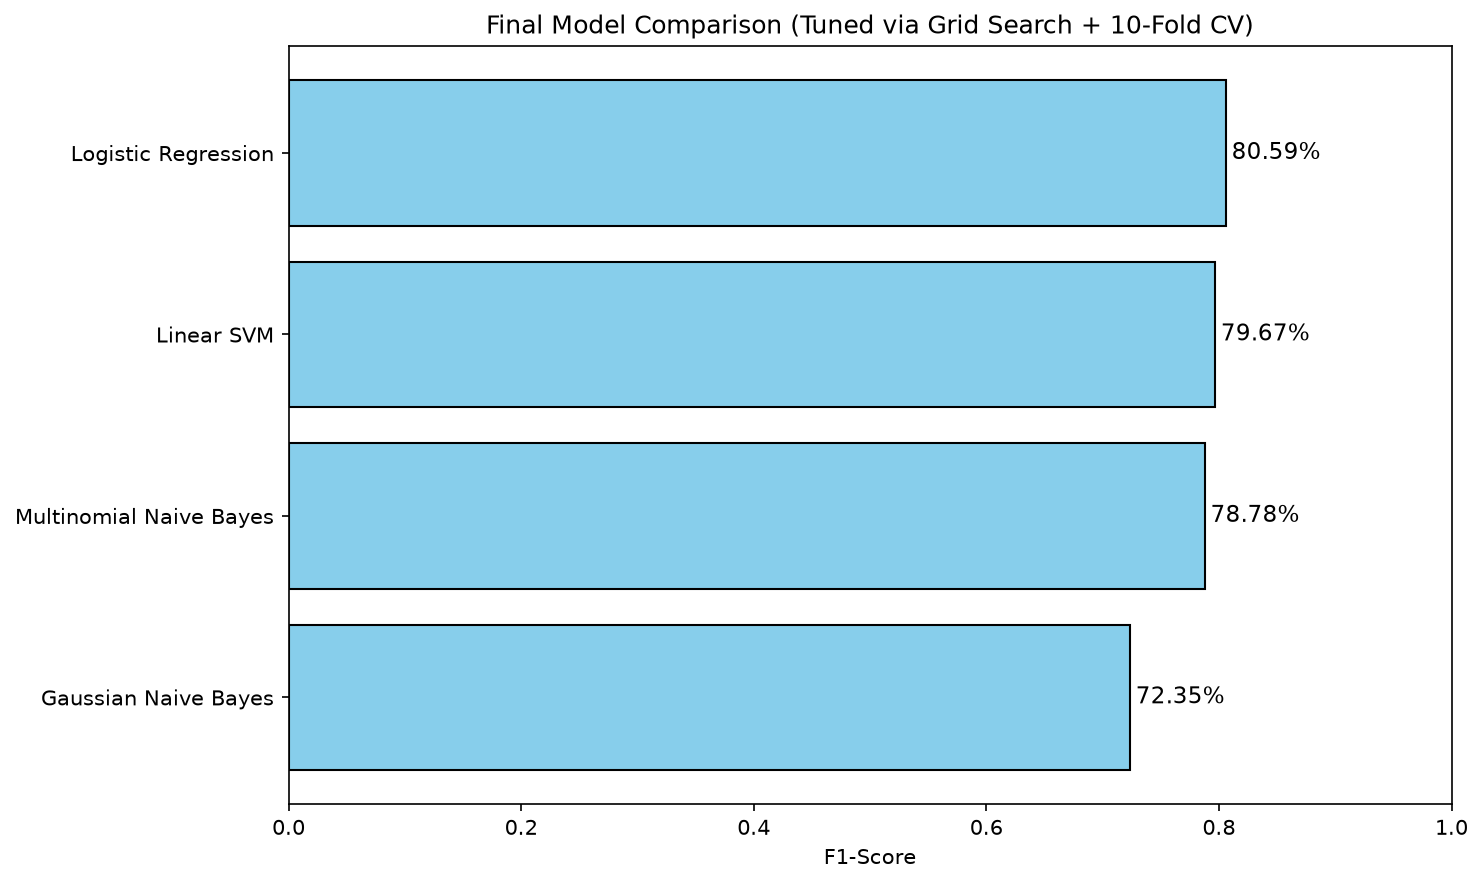
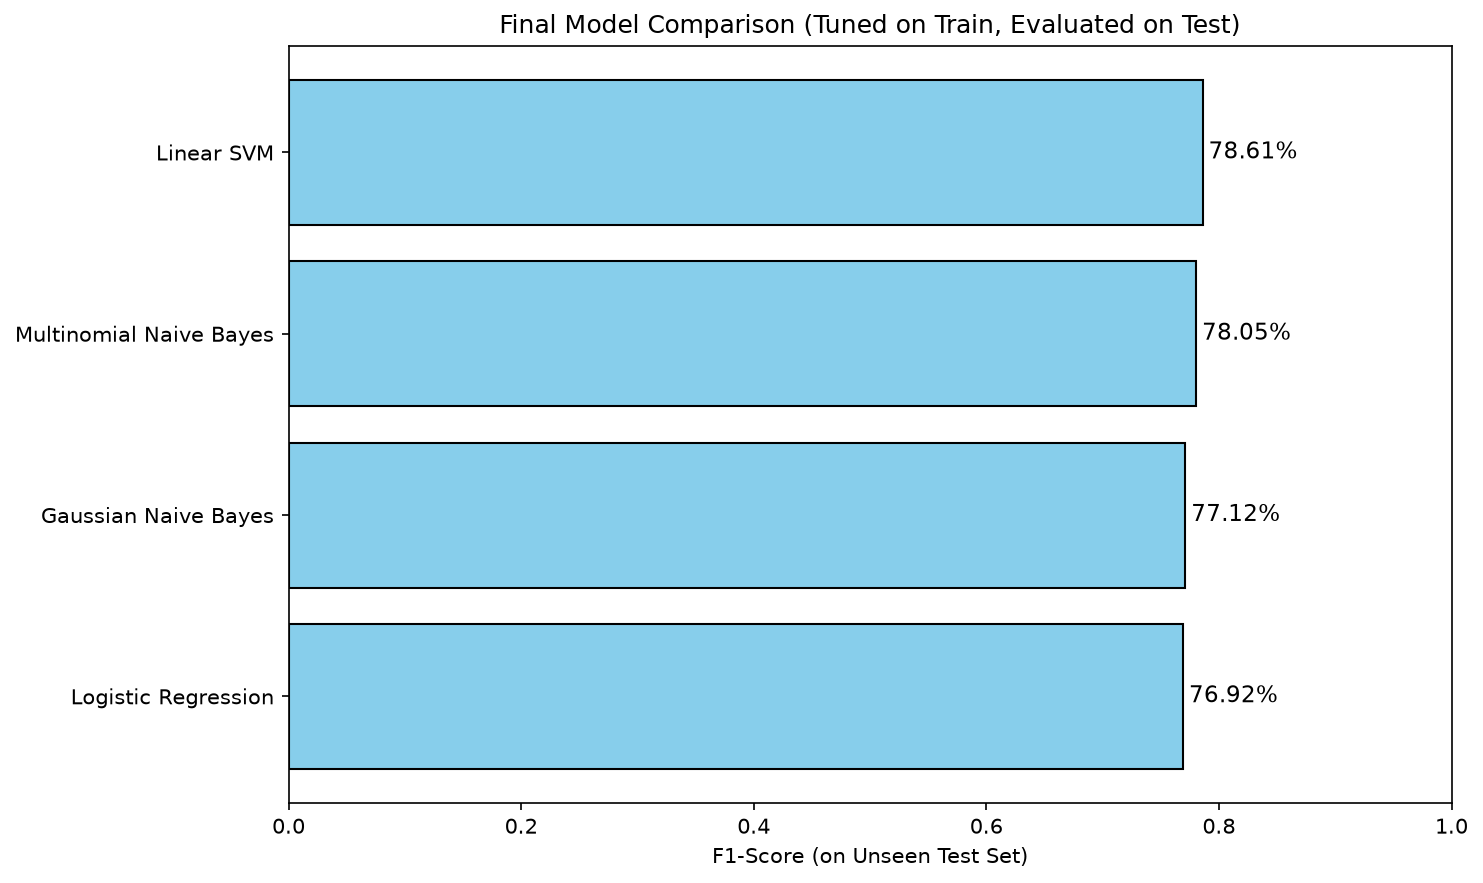
separate tuning and evaluation phases using 80/20 holdout set

diff --git a/src/nlp_pipline.py b/src/nlp_pipline.py
@@ -1,6 +1,14 @@
-
+# =============================================================================
 # RESTAURANT REVIEWS SENTIMENT ANALYSIS - NLP PIPELINE
-
+# =============================================================================
+# 
+# This script performs sentiment analysis on restaurant reviews using:
+#   - Natural Language Processing (NLP) for text cleaning.
+#   - Bag of Words model (CountVectorizer) for feature extraction.
+#   - 80/20 Train-Test Split to prevent data leakage.
+#   - Grid Search on the Training set to tune hyperparameters.
+#   - Final unbiased evaluation on the unseen Test set.
+# =============================================================================
 
 import re
 import nltk
@@ -11,10 +19,11 @@ import matplotlib.pyplot as plt
 from nltk.corpus import stopwords
 from nltk.stem.porter import PorterStemmer
 from sklearn.feature_extraction.text import CountVectorizer
-from sklearn.model_selection import GridSearchCV, cross_validate
+from sklearn.model_selection import train_test_split, GridSearchCV
 from sklearn.naive_bayes import GaussianNB, MultinomialNB
 from sklearn.linear_model import LogisticRegression
 from sklearn.svm import SVC
+from sklearn.metrics import accuracy_score, precision_score, recall_score, f1_score
 
 
 # =============================================================================
@@ -49,27 +58,16 @@ def clean_reviews(dataset):
     corpus = []
     ps = PorterStemmer()
     
-    # Get stopwords and remove 'not' (because it carries sentiment)
     all_stopwords = stopwords.words('english')
     all_stopwords.remove('not')
-    stopword_set = set(all_stopwords)  # Use a set for O(1) lookup
+    stopword_set = set(all_stopwords)
     
     for i in range(len(dataset)):
-        # Step 1: Remove non-letter characters
         review = re.sub('[^a-zA-Z]', ' ', dataset['Review'][i])
-        
-        # Step 2: Lowercase
         review = review.lower()
-        
-        # Step 3: Split into words
         review = review.split()
-        
-        # Step 4: Stem and remove stopwords
         review = [ps.stem(word) for word in review if word not in stopword_set]
-        
-        # Step 5: Join back into a string
         review = ' '.join(review)
-        
         corpus.append(review)
     
     print(f"Cleaned {len(corpus)} reviews.")
@@ -89,57 +87,45 @@ def build_bag_of_words(corpus, max_features=1500):
 
 
 # =============================================================================
-# 5. TUNE AND EVALUATE MODELS
+# 5. TUNE ON TRAIN SET & EVALUATE ON TEST SET
 # =============================================================================
 
-def tune_and_evaluate(model_name, classifier, param_grid, X, y, cv=10):
+def tune_and_evaluate(model_name, classifier, param_grid, X_train, y_train, X_test, y_test, cv=10):
     """
-    Tune a model using GridSearchCV, then evaluate it using 
-    cross_validate to get Accuracy, Precision, Recall, and F1-Score.
+    Tune a model using GridSearchCV on the Training set, 
+    then evaluate it once on the unseen Test set.
     """
     print(f"\nProcessing: {model_name}")
     
-    # 1. Tuning (Grid Search)
+    # 1. Tuning (Grid Search on the Training Data ONLY)
     if param_grid:
         grid_search = GridSearchCV(
             estimator=classifier, 
             param_grid=param_grid, 
-            scoring="f1", 
+            scoring="f1",  # We tune using F1-Score
             cv=cv, 
             n_jobs=-1
         )
-        grid_search.fit(X, y)
+        grid_search.fit(X_train, y_train)
         best_model = grid_search.best_estimator_
         best_params = grid_search.best_params_
+        print(f"  -> Best Params found on Train Set: {best_params}")
     else:
         # If no grid is provided (e.g., GaussianNB)
         best_model = classifier
+        best_model.fit(X_train, y_train)
         best_params = "N/A"
+        print("  -> No hyperparameters to tune. Trained with default settings.")
         
-    # 2. Final Evaluation (Cross-Validation for all metrics)
-    scoring_metrics = {
-        'accuracy': 'accuracy',
-        'precision': 'precision',
-        'recall': 'recall',
-        'f1': 'f1'
-    }
-    
-    cv_results = cross_validate(
-        best_model, X, y, cv=cv, scoring=scoring_metrics, n_jobs=-1
-    )
-    
-    # Calculate means
-    mean_acc = cv_results['test_accuracy'].mean()
-    mean_prec = cv_results['test_precision'].mean()
-    mean_rec = cv_results['test_recall'].mean()
-    mean_f1 = cv_results['test_f1'].mean()
+    # 2. Final Evaluation on the UNSEEN Test Data
+    y_pred = best_model.predict(X_test)
     
     return {
         "Model": model_name,
-        "Accuracy": mean_acc,
-        "Precision": mean_prec,
-        "Recall": mean_rec,
-        "F1-Score": mean_f1,
+        "Accuracy": accuracy_score(y_test, y_pred),
+        "Precision": precision_score(y_test, y_pred),
+        "Recall": recall_score(y_test, y_pred),
+        "F1-Score": f1_score(y_test, y_pred),
         "Best Params": str(best_params)
     }
 
@@ -149,16 +135,12 @@ def tune_and_evaluate(model_name, classifier, param_grid, X, y, cv=10):
 # =============================================================================
 
 def plot_comparison(results, filename="outputs/model_comparison.png"):
-    """Plot a bar chart comparing model accuracies and save it to a file."""
-    # Sort by F1-Score (since it balances precision and recall)
+    """Plot a bar chart comparing model F1-Scores on the Test set."""
     df = pd.DataFrame(results).sort_values("F1-Score", ascending=True)
     
     plt.figure(figsize=(10, 6))
-    
-    # We will plot the F1-Score, as it's the best overall metric
     bars = plt.barh(df["Model"], df["F1-Score"], color="skyblue", edgecolor="black")
     
-    # Add labels on each bar
     for bar, f1 in zip(bars, df["F1-Score"]):
         plt.text(
             bar.get_width() + 0.005,
@@ -168,8 +150,8 @@ def plot_comparison(results, filename="outputs/model_comparison.png"):
             fontsize=11
         )
     
-    plt.xlabel("F1-Score")
-    plt.title("Final Model Comparison (Tuned via Grid Search + 10-Fold CV)")
+    plt.xlabel("F1-Score (on Unseen Test Set)")
+    plt.title("Final Model Comparison (Tuned on Train, Evaluated on Test)")
     plt.xlim(0, 1.0)
     plt.tight_layout()
     
@@ -184,7 +166,7 @@ def plot_comparison(results, filename="outputs/model_comparison.png"):
 # =============================================================================
 
 def main():
-    """Run the complete NLP pipeline with Grid Search tuning."""
+    """Run the complete NLP pipeline with rigorous Train/Test separation."""
     
     # Step 1: Setup and Data Loading
     download_nltk_data()
@@ -195,40 +177,49 @@ def main():
     X, cv_vectorizer = build_bag_of_words(corpus, max_features=1500)
     y = dataset.iloc[:, -1].values
     
-    # Step 3: Define the models AND their hyperparameter grids
+    # Step 3: THE GOLD STANDARD SPLIT
+    # We lock away 20% of the data NOW. The models will never see it during tuning.
+    X_train, X_test, y_train, y_test = train_test_split(
+        X, y, test_size=0.2, random_state=0
+    )
+    print(f"Train shape: {X_train.shape}, Test shape: {X_test.shape}")
+    
+    # Step 4: Define the models AND their hyperparameter grids
     models_and_params = {
         "Gaussian Naive Bayes": {
             "model": GaussianNB(),
-            "params": {}  # No hyperparameters to tune
+            "params": {}  
         },
         "Multinomial Naive Bayes": {
             "model": MultinomialNB(),
-            "params": {"alpha": [0.1, 0.5, 1.0]}
+            "params": {"alpha": [0.1, 0.5, 1.0]} 
         },
         "Logistic Regression": {
             "model": LogisticRegression(max_iter=1000, random_state=0),
-            "params": {"C": [0.1, 1, 10]}
+            "params": {"C": [0.1, 1, 10]} 
         },
         "Linear SVM": {
             "model": SVC(kernel='linear', random_state=0),
-            "params": {"C": [0.1, 1, 10]}
+            "params": {"C": [0.1, 1, 10]} 
         },
     }
     
     results = []
     
-    # Step 4: Tune and Evaluate each model
+    # Step 5: Tune on Train, Evaluate on Test
     for name, mp in models_and_params.items():
-        result = tune_and_evaluate(name, mp["model"], mp["params"], X, y, cv=10)
+        result = tune_and_evaluate(
+            name, mp["model"], mp["params"], 
+            X_train, y_train, X_test, y_test, cv=10
+        )
         results.append(result)
     
-    # Step 5: Print the Final Summary Table
-    print("\n" + "=" * 80)
-    print("FINAL RESULTS: GRID SEARCH + 10-FOLD CROSS-VALIDATION")
-    print("=" * 80)
+    # Step 6: Print the Final Summary Table
+    print("\n" + "=" * 85)
+    print("FINAL RESULTS: EVALUATED ON UNSEEN TEST DATA (20%)")
+    print("=" * 85)
     
     summary = pd.DataFrame(results)
-    # Sort by F1-Score to find the overall best model
     summary = summary.sort_values("F1-Score", ascending=False)
     
     # Format metric columns as percentages
@@ -237,7 +228,7 @@ def main():
         
     print(summary[["Model", "Accuracy", "Precision", "Recall", "F1-Score", "Best Params"]].to_string(index=False))
     
-    # Step 6: Plot the Results
+    # Step 7: Plot the Results
     plot_comparison(results)
 
 

diff --git a/README.md b/README.md
@@ -4,7 +4,7 @@ A Natural Language Processing (NLP) project that classifies restaurant reviews a
 
 ## Overview
 
-This project demonstrates a complete NLP pipeline, from raw text preprocessing to model training and robust evaluation. It covers text cleaning, stemming, stopword removal, feature extraction using the Bag of Words technique, and a comparative analysis of four different classification algorithms.
+This project demonstrates a complete NLP pipeline, from raw text preprocessing to model training and rigorous evaluation. It covers text cleaning, stemming, stopword removal, feature extraction using the Bag of Words technique, and a comparative analysis of four different classification algorithms.
 
 The goal is to build a reliable model that can automatically determine the sentiment of a customer review, which can be applied to automate customer feedback monitoring and business intelligence.
 
@@ -29,25 +29,28 @@ The pipeline follows these key steps:
    - Applied Porter Stemming to reduce words to their root forms (e.g., "loved" to "love").
    - Removed stopwords, except for "not", which is crucial for sentiment analysis.
 3. **Feature Extraction:** Used `CountVectorizer` with `max_features=1500` to keep only the 1,500 most frequent words, converting the text into a sparse matrix.
-4. **Model Tuning and Evaluation:** To ensure maximum performance, all models were tuned using **Grid Search** (testing different regularization strengths and smoothing parameters). The models were then evaluated using **10-Fold Cross-Validation** to provide a statistically robust estimate of real-world performance. The final ranking is based on the **F1-Score**, which balances Precision (the quality of positive predictions) and Recall (the ability to find all positive reviews).
+4. **Rigorous Evaluation Strategy:** 
+   - The dataset was split into an **80% Training set** and a **20% Test set**. The test set was locked away and not used during the tuning phase to prevent data leakage.
+   - **Grid Search** was performed exclusively on the Training set to find the best hyperparameters (using 10-Fold Cross-Validation).
+   - The final models were evaluated **once** on the unseen Test set to provide an unbiased, real-world estimate of performance. The models were ranked by **F1-Score** to ensure a balance between Precision and Recall.
 
 ## Model Comparison and Results
 
-Four classifiers were tuned and evaluated. The final results represent the average metrics across 10-Fold Cross-Validation.
+Four classifiers were tuned and evaluated on the unseen 20% Test set. 
 
 ![Model Comparison](outputs/model_comparison.png)
 
 | Model | Accuracy | Precision | Recall | F1-Score | Best Parameters |
 | :--- | :--- | :--- | :--- | :--- | :--- |
-| **Logistic Regression** | **80.90%** | **82.38%** | 79.40% | **80.59%** | `C=10` |
-| Linear SVM | 79.90% | 81.21% | 78.60% | 79.67% | `C=1` |
-| Multinomial Naive Bayes | 78.80% | 78.71% | 79.00% | 78.78% | `alpha=1.0` |
-| Gaussian Naive Bayes | 67.70% | 63.30% | 84.60% | 72.35% | N/A |
+| **Linear SVM** | **78.50%** | **80.61%** | 76.70% | **78.61%** | `C=1` |
+| Multinomial Naive Bayes | 77.50% | 78.43% | 77.67% | 78.05% | `alpha=1.0` |
+| Gaussian Naive Bayes | 73.00% | 68.42% | 88.35% | 77.12% | N/A |
+| Logistic Regression | 77.50% | 81.52% | 72.82% | 76.92% | `C=1` |
 
 ### Key Findings:
-1. **Logistic Regression** achieved the highest F1-Score (80.59%), proving it has the most reliable balance between finding positive reviews and avoiding false alarms. Grid Search found that a regularization strength of `C=10` was optimal.
-2. **Gaussian Naive Bayes** achieved a high Recall (84.60%) but a very poor Precision (63.30%). This means it predicted positive for almost every review, resulting in a massive number of false positives. This demonstrates why Accuracy and Recall alone can be misleading, and why F1-Score is the superior metric for ranking.
-3. **Multinomial Naive Bayes** outperformed Gaussian Naive Bayes by over 6%, confirming the mathematical theory that MultinomialNB is designed for discrete word counts, while GaussianNB assumes continuous, normally distributed data.
+1. **Linear SVM** achieved the highest F1-Score (78.61%) on the unseen test data, proving it generalizes best to new reviews. Grid Search found that `C=1` was optimal.
+2. **Gaussian Naive Bayes** achieved a high Recall (88.35%) but a very poor Precision (68.42%). This means it predicted positive for almost every review, resulting in a massive number of false positives. F1-Score correctly penalized this, proving why Accuracy alone is misleading.
+3. **Rigorous Testing Prevented Overfitting:** During the tuning phase, Logistic Regression appeared to be the strongest model. However, when tested on the completely unseen 20% holdout set, its performance dropped, revealing it had slightly overfit the training data. The Linear SVM proved to be the most robust.
 
 ## Project Structure
 
@@ -81,7 +84,7 @@ cd restaurant-reviews-nlp
 pip install -r requirements.txt
 ```
 
-3. Run the Python pipeline script. Note: This script will clean the data, train the models using Grid Search, print evaluation metrics to the console, and automatically save the comparison chart to the `outputs/` folder:
+3. Run the Python pipeline script. This script will clean the data, tune the models using Grid Search, evaluate them on the 20% holdout test set, and save the comparison chart:
 ```bash
 python src/nlp_pipeline.py
 ```
